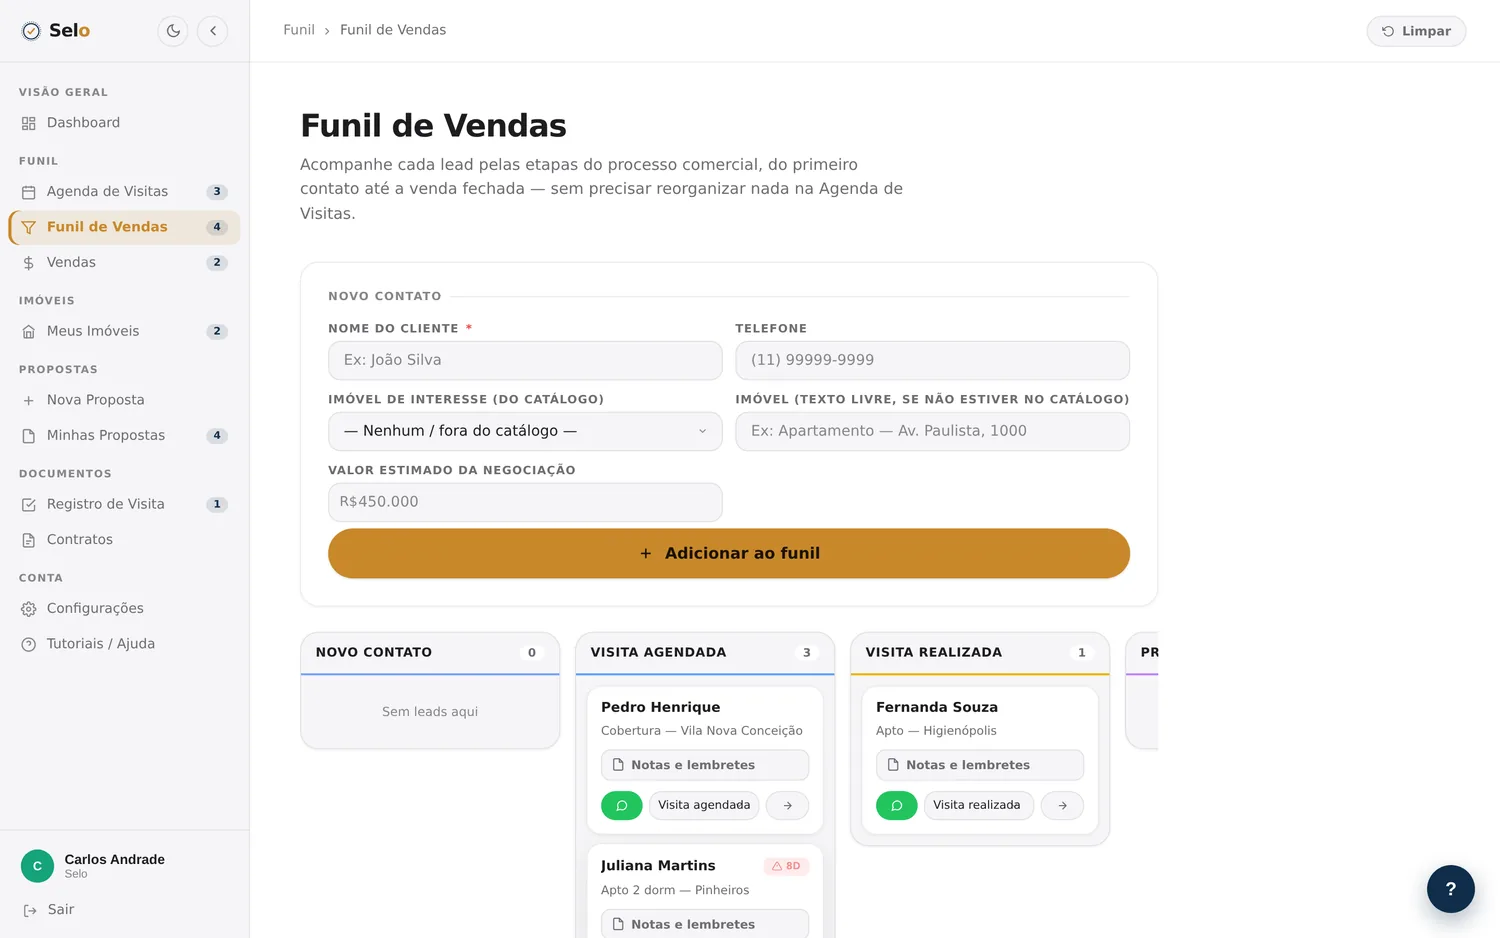
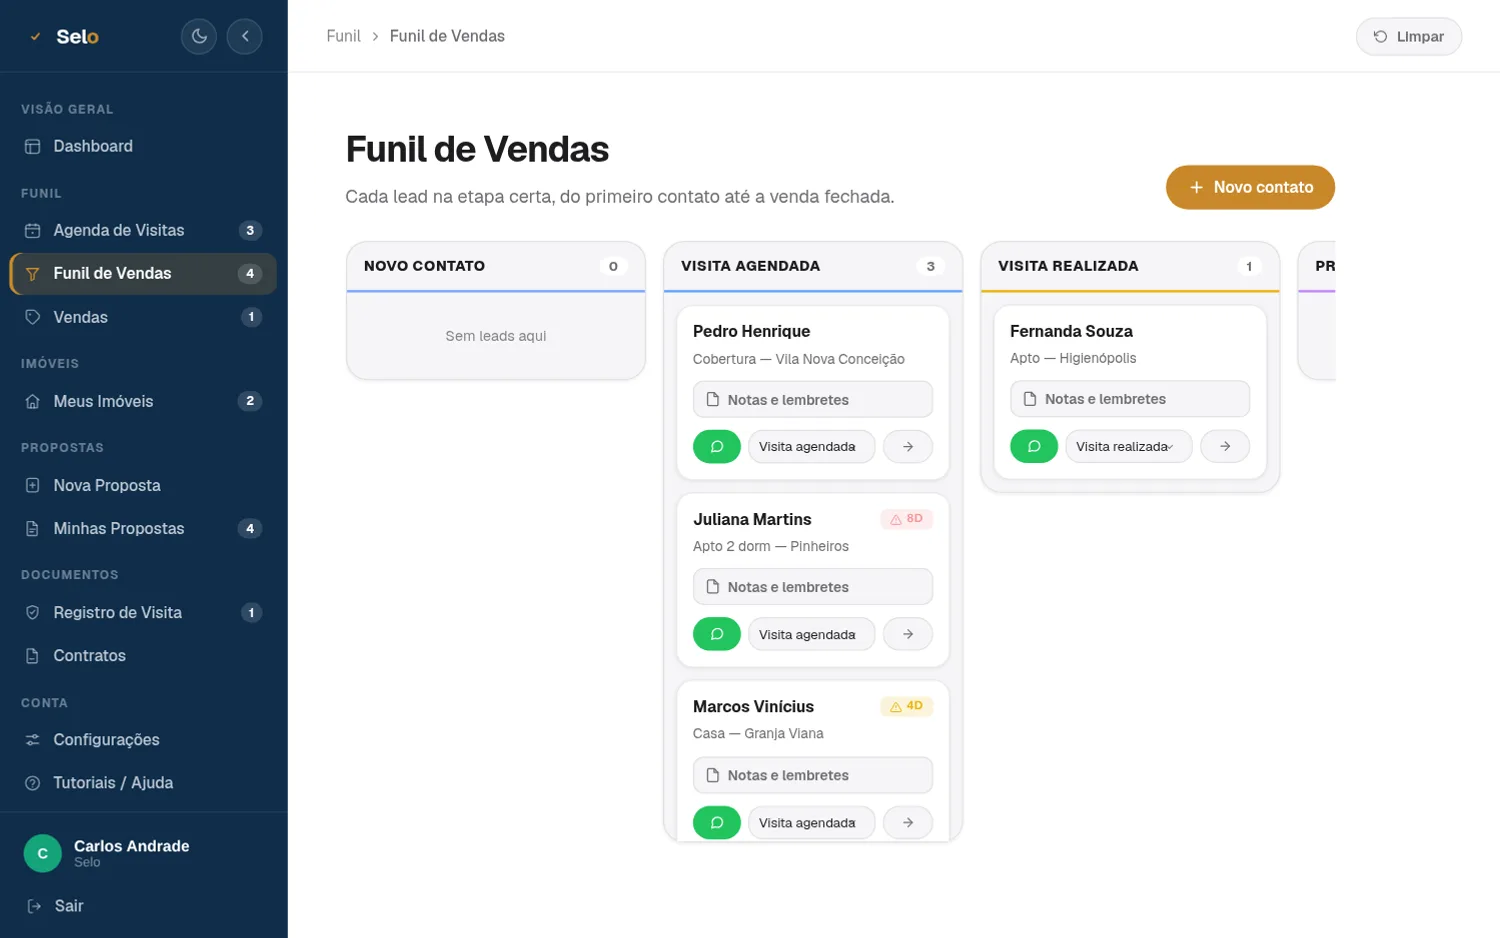
Redesign da landing: alinhada ao produto novo + de-IA das etiquetas
- Os 6 screenshots do carrossel do hero eram do design ANTIGO da
  ferramenta — regenerados a partir do redesign (navy chrome, Geist,
  telas content-first), capturados do modo demo sem banner/toasts,
  1500×938 como os originais
- Etiquetas de seção (.eyebrow, .jr-stage, .plan-name) saem da minúscula
  em MAIÚSCULA espaçada para caixa normal confiante — mesma decisão
  aprovada na pele de marca da ferramenta; labels do widget de demo ficam
  como estão porque espelham os labels reais do produto
- CLAUDE.md atualizado: branch de desenvolvimento agora é
  claude/selo-redesign-continue-plgpy4 (todo o trabalho do branch antigo
  veio via cherry-pick) e a regra 8 registra o redesign como executado,
  com as regras permanentes do design system

Claude-Session: https://claude.ai/code/session_01BhX21P8zR1U22Ea9KP498R

diff --git a/public/landing.html b/public/landing.html
@@ -88,10 +88,12 @@
   .wrap{width:100%;max-width:var(--maxw);margin:0 auto;padding:0 22px}
   .wrap-n{width:100%;max-width:var(--maxw-n);margin:0 auto;padding:0 22px}
   .section{padding:72px 0}
+  /* Etiqueta de seção em caixa normal — a versão minúscula em MAIÚSCULA
+     espaçada era o maior "tell" visual de IA (mesma decisão da ferramenta). */
   .eyebrow{
     display:inline-flex;align-items:center;gap:8px;
-    font-size:13px;font-weight:700;letter-spacing:.14em;text-transform:uppercase;
-    color:var(--amber);margin-bottom:18px;
+    font-size:15px;font-weight:650;letter-spacing:-.1px;
+    color:var(--amber);margin-bottom:16px;
   }
   .eyebrow svg{width:15px;height:15px}
 
@@ -356,7 +358,7 @@
     transition:border-color .2s ease,transform .2s ease,box-shadow .2s ease;
   }
   .jr-card:hover{border-color:rgba(201,136,42,.38);transform:translateX(3px);box-shadow:0 12px 28px rgba(15,32,74,.09)}
-  .jr-stage{display:block;font-size:11.5px;font-weight:800;letter-spacing:.12em;text-transform:uppercase;color:var(--amber);margin-bottom:9px}
+  .jr-stage{display:block;font-size:13px;font-weight:700;letter-spacing:0;color:var(--amber);margin-bottom:9px}
   .jr-card h3{font-size:18.5px;line-height:1.36;font-family:var(--font-h);font-weight:700;color:var(--navy-2);margin-bottom:8px}
   .jr-card p{font-size:15px;color:var(--ink-2)}
   .jr-cta{text-align:center;margin-top:48px}
@@ -389,8 +391,8 @@
     padding:6px 16px;border-radius:999px;white-space:nowrap;
   }
   .plan-name{
-    font-family:var(--font-h);font-size:14px;font-weight:700;letter-spacing:.1em;
-    text-transform:uppercase;color:var(--ink-2);margin-bottom:16px;
+    font-family:var(--font-h);font-size:16px;font-weight:700;letter-spacing:-.2px;
+    color:var(--ink-2);margin-bottom:16px;
   }
   .plan-price{display:flex;align-items:baseline;gap:5px}
   .plan-price .cur{font-size:22px;font-weight:700;color:var(--navy-2)}

diff --git a/CLAUDE.md b/CLAUDE.md
@@ -99,7 +99,9 @@ Sem esse grant, todas as escritas retornam 403/42501.
 
 ## Regras para agentes
 
-1. **Branch de desenvolvimento**: `claude/development-session-O10kI`
+1. **Branch de desenvolvimento**: `claude/selo-redesign-continue-plgpy4`
+   (substitui `claude/development-session-O10kI` — todo o trabalho daquele
+   branch foi trazido para cá via cherry-pick em 2026-07-10)
    - Commitar e pushar neste branch
    - Nunca pushar direto em `main` sem autorização explícita
    - `main` é production — PR necessário
@@ -120,7 +122,7 @@ Sem esse grant, todas as escritas retornam 403/42501.
    - Vale para Reels, carrosséis, stories, e-mails e textos da ferramenta.
    - **Vídeo do avatar: limite de 10 segundos** (limitação da ferramenta do fundador). Todo roteiro de Reel com avatar é UMA ideia objetiva, ~22 a 25 palavras de fala. Conteúdo com várias partes (ex.: "4 regras") vira carrossel, ou a fala puxa o gancho e as partes aparecem como texto na tela.
 
-8. **Redesign da ferramenta (pendente)**: o fundador acha o visual atual "com cara de IA / feio". Não tentar "deixar mais bonito" no genérico — isso recai no mesmo resultado. O caminho acordado: (a) partir de 1–3 referências visuais reais que o fundador escolher; (b) definir um design system enxuto (tipografia, escala de espaçamento, 1 cor de acento, menos caixas/bordas, mais respiro); (c) redesenhar UMA tela até ficar certa como referência; (d) propagar. Sem referência concreta, não começar.
+8. **Redesign da ferramenta (Fase 2 — executado, aguardando merge)**: o caminho acordado foi cumprido: (a) referências reais de CRM de corretor (FUB/kvCORE/Chime); (b) design system enxuto (Geist carregada de verdade, cromo navy, cards planos, cabeçalhos confiantes em caixa normal, 1 acento âmbar, família de ícones própria com ponto-lacre); (c) Dashboard "central de comando" como tela-referência aprovada; (d) propagado para todas as telas (content-first: lista/board/catálogo como herói da tela, formulário de criação atrás da ação primária do cabeçalho) e landing alinhada ao produto (screenshots do design novo, etiquetas de seção em caixa normal). Regras que ficam: nunca reintroduzir a etiqueta minúscula em MAIÚSCULA espaçada nem emoji na UI; tela nova segue o padrão dash-top + painel recolhível; a cor pessoal do corretor (--bp/--bph/--bps) NUNCA aparece no chrome do app — só na proposta.
 
 ## Comandos úteis
 
